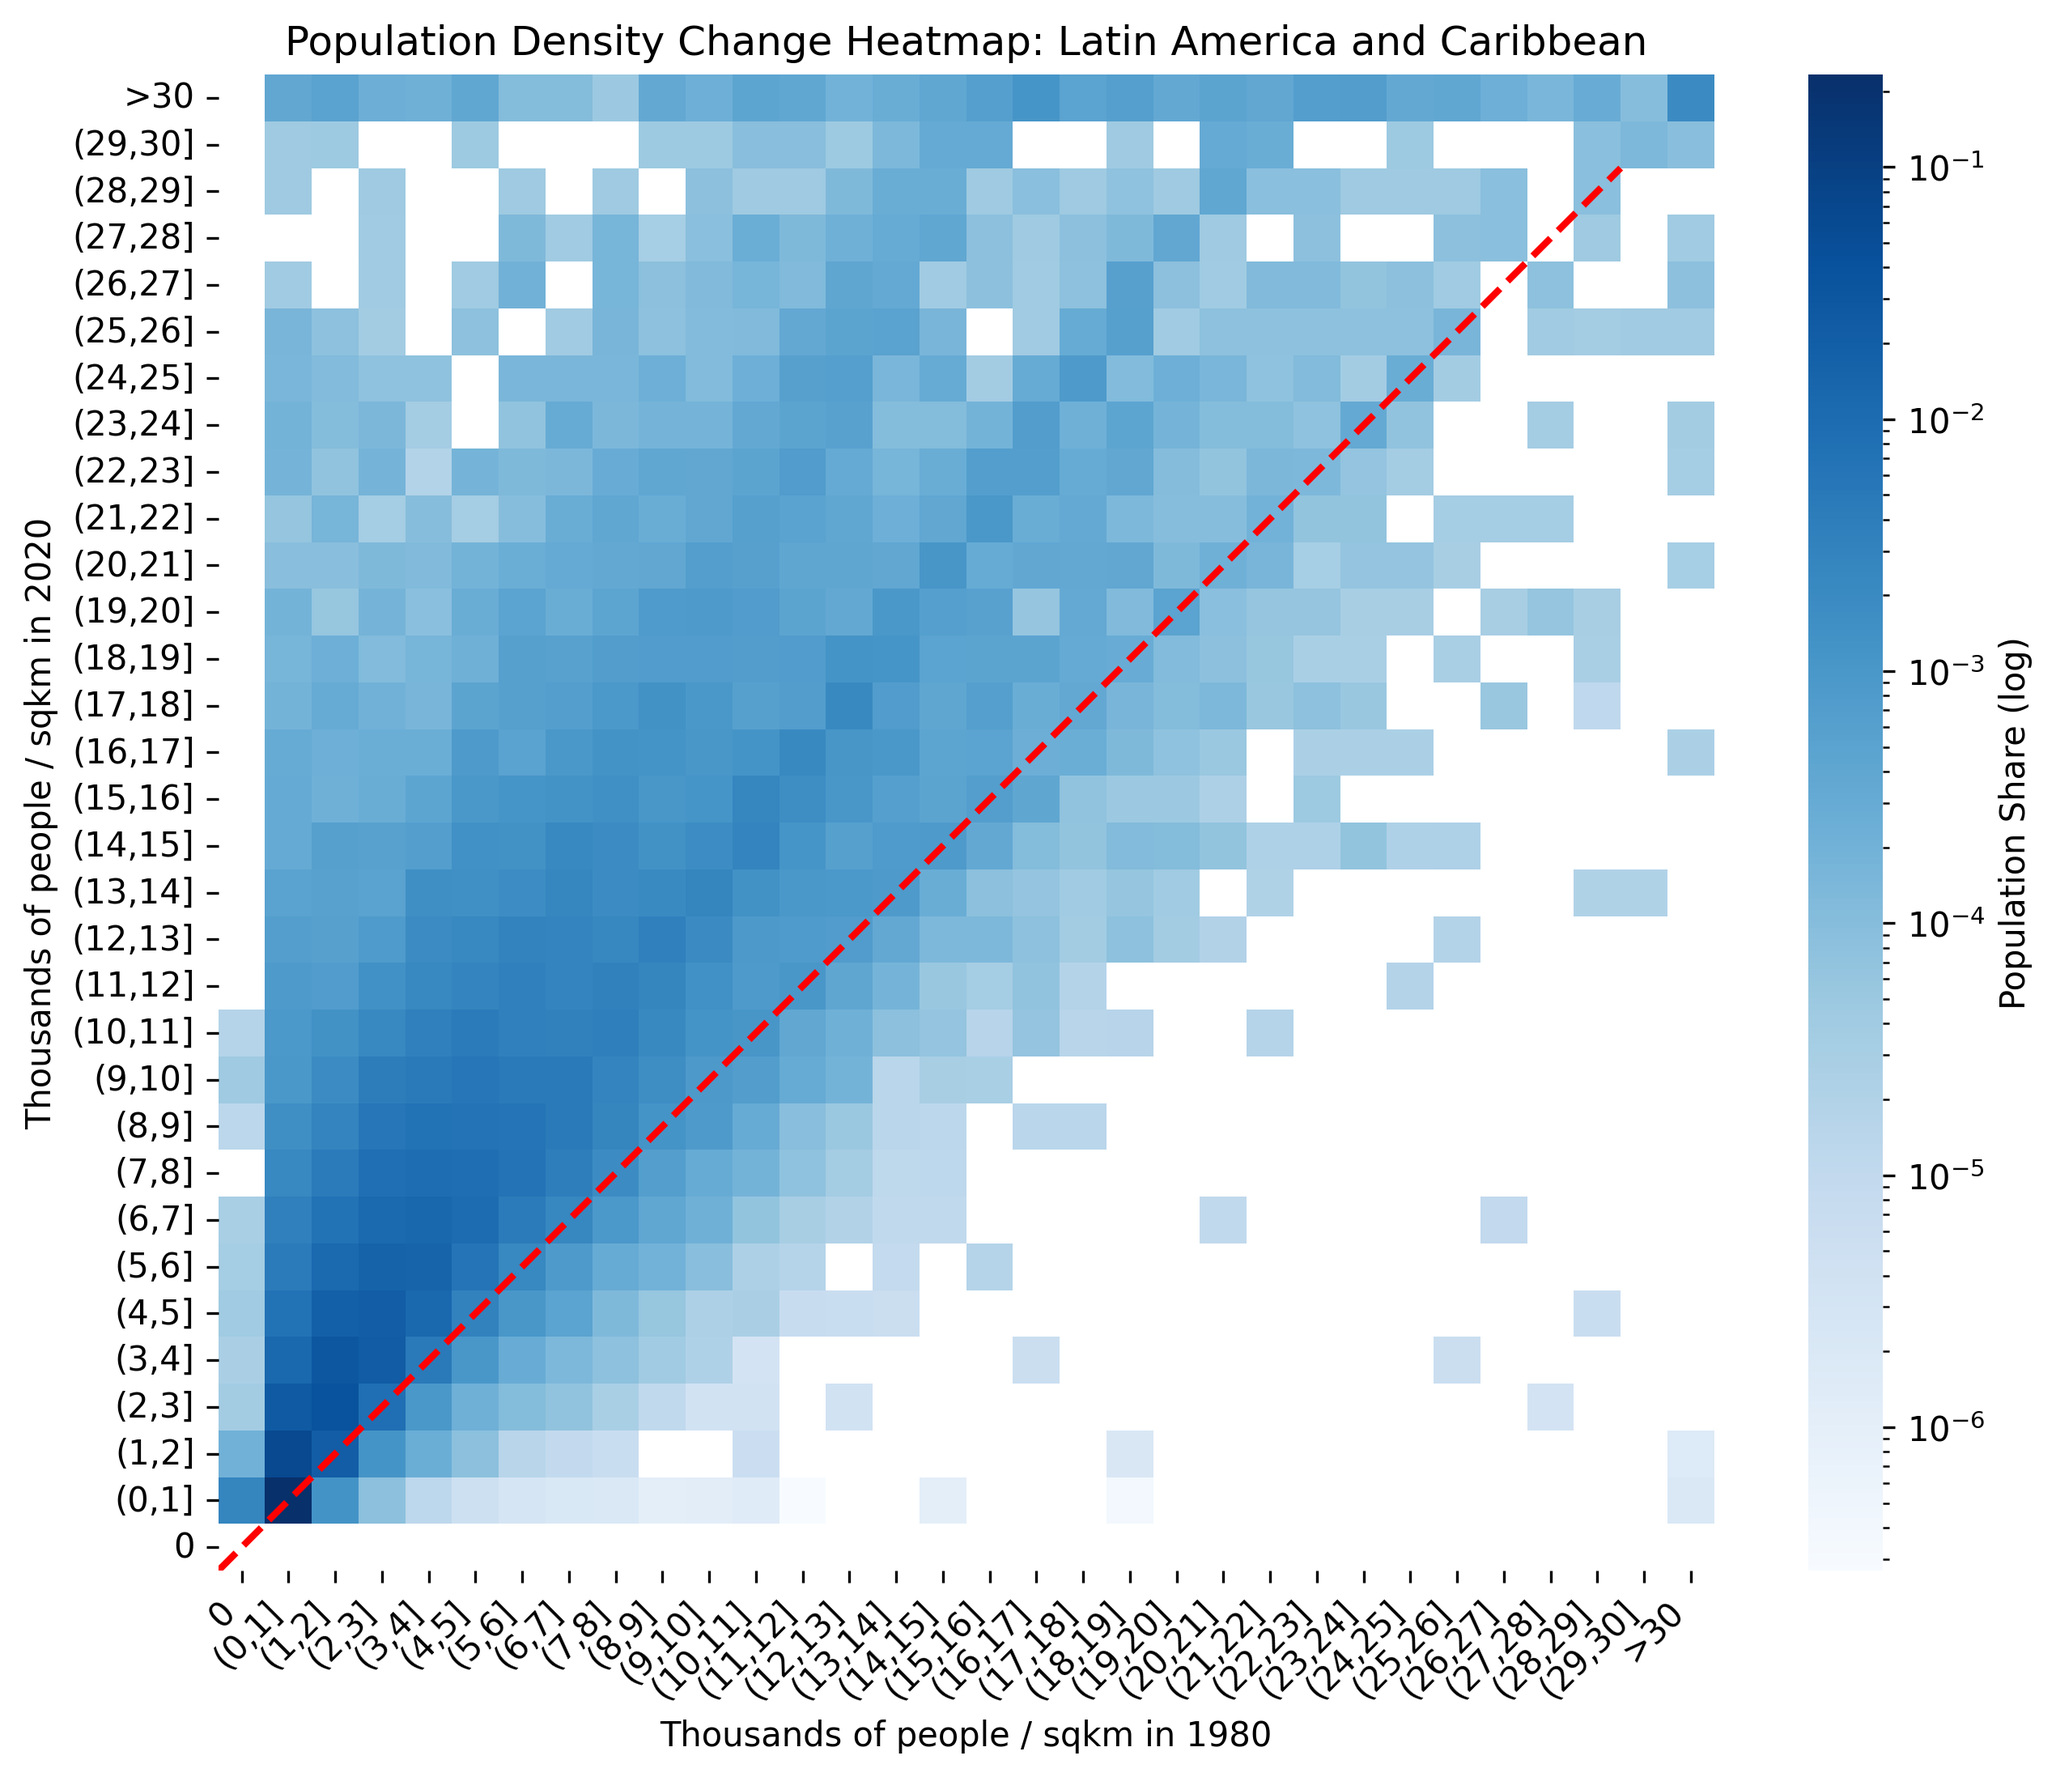
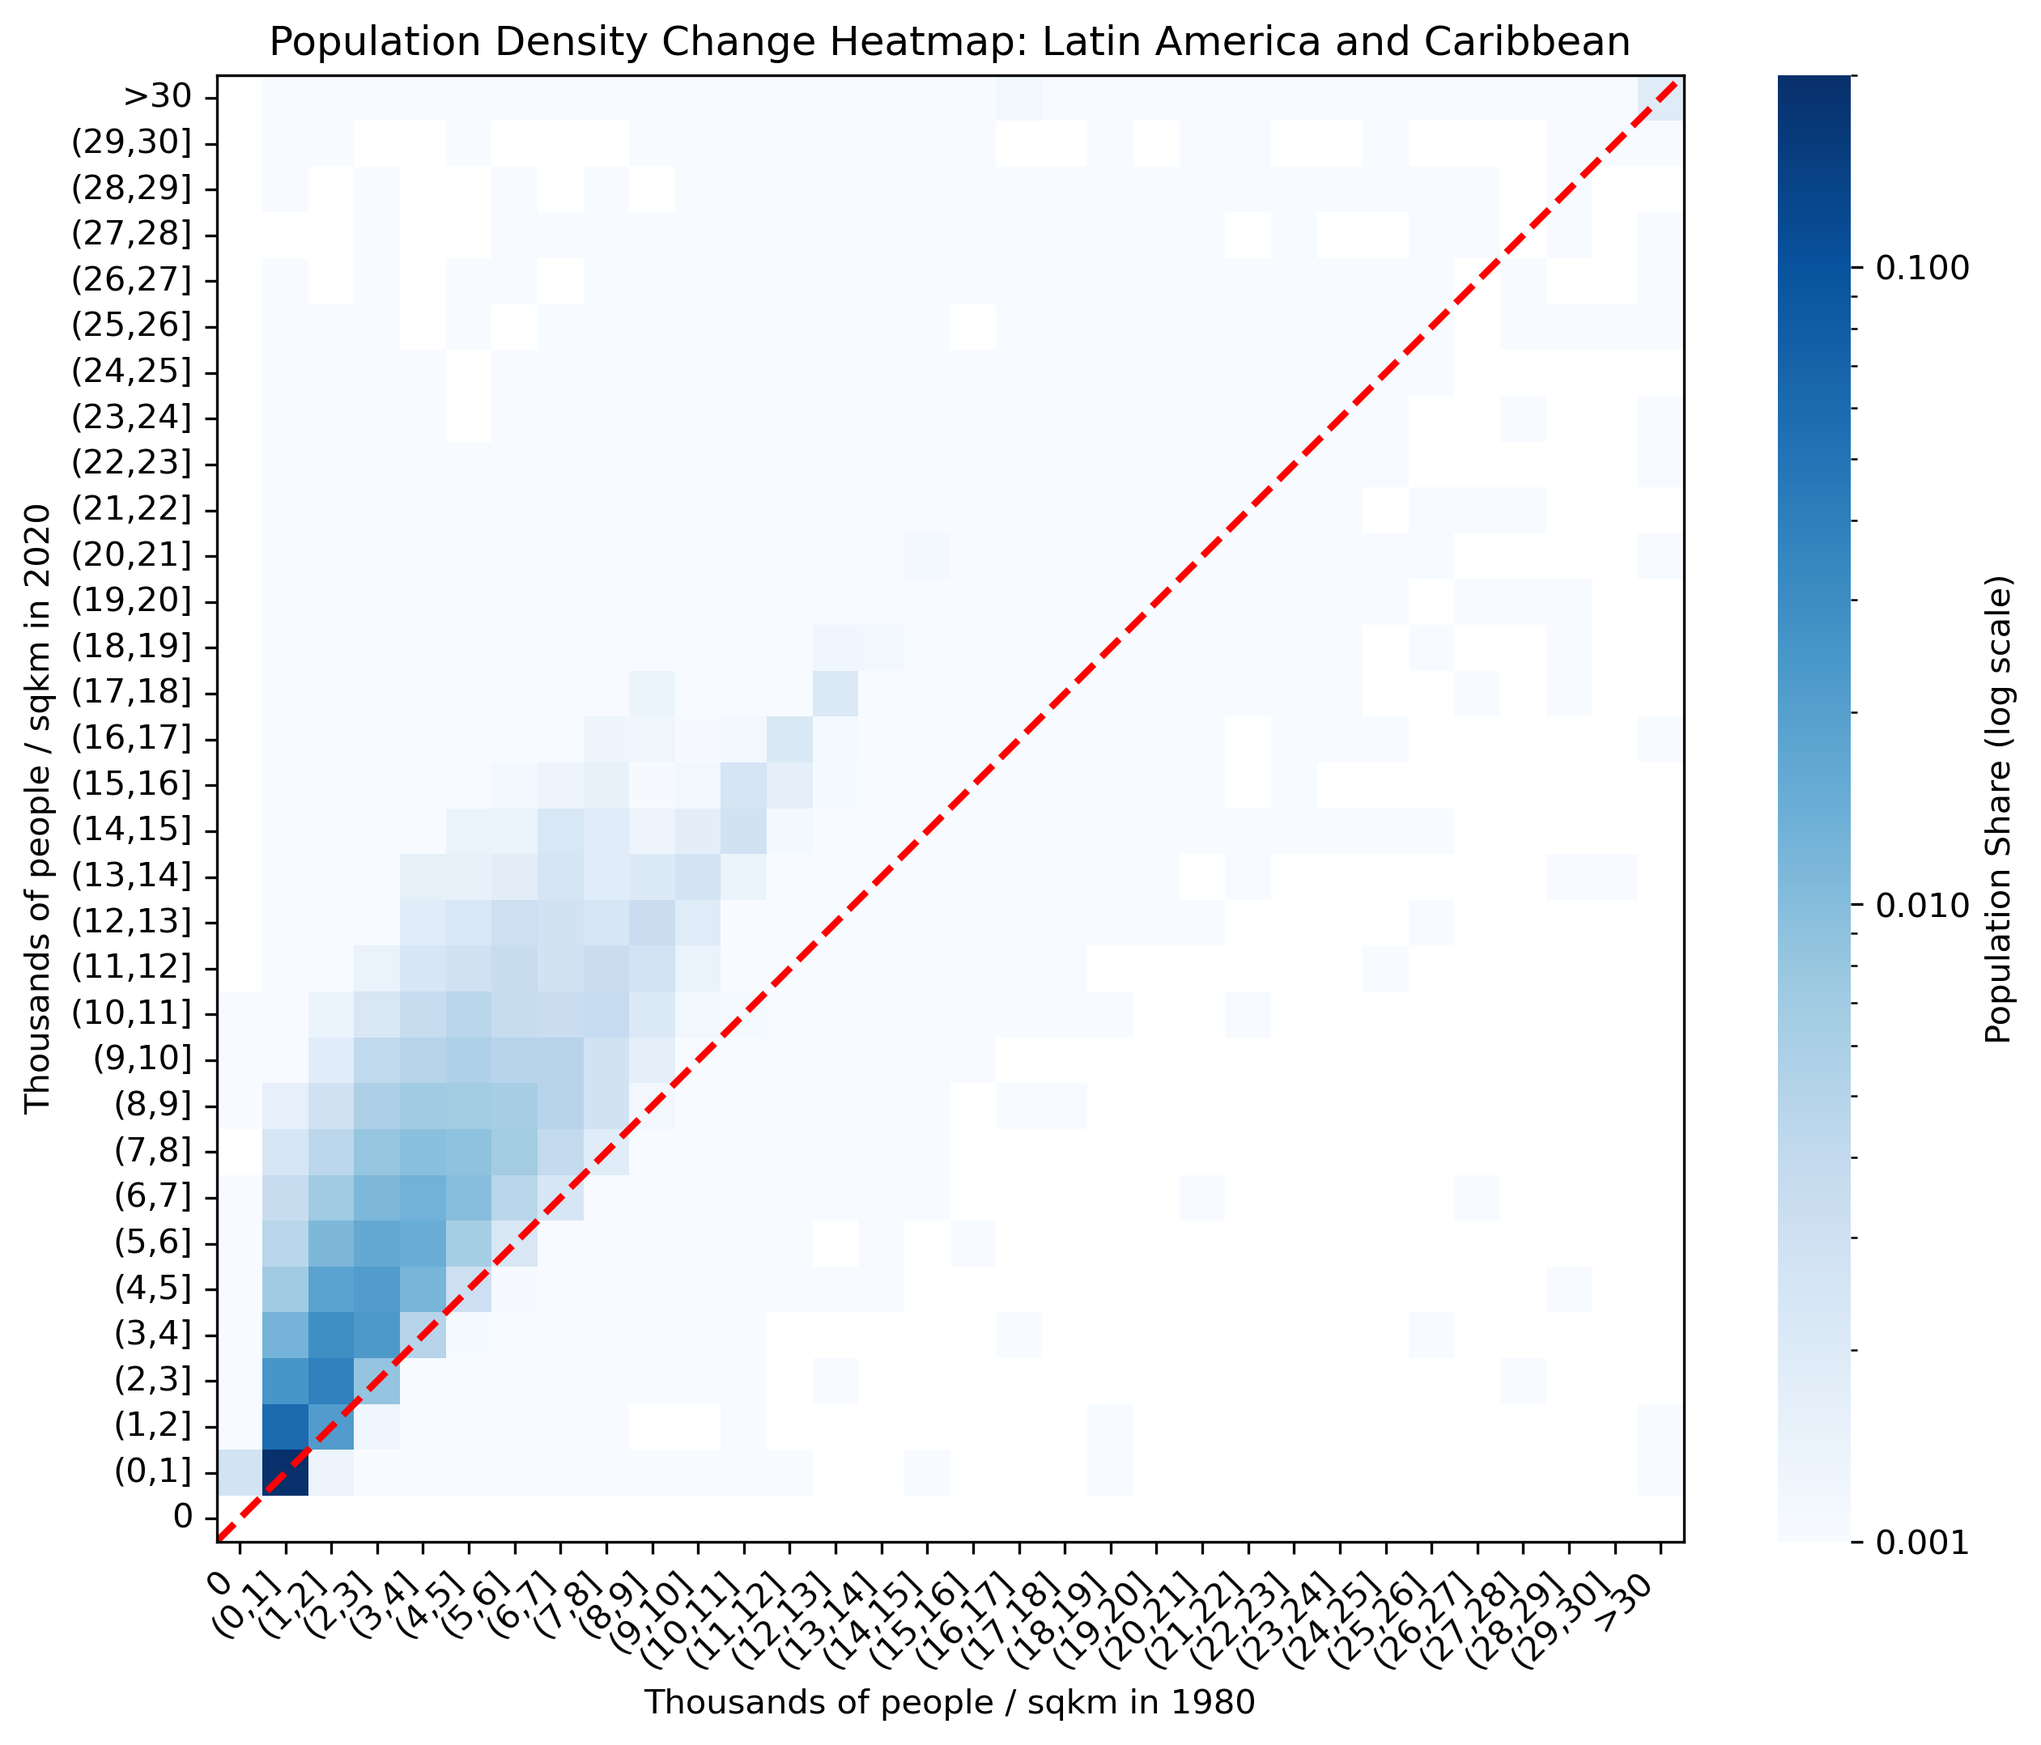
adjusted heatmaps
1) updated path names
2) gave heatmaps a border
3) set up to dynamically change data range (but left it at 30,000 ppl/sqm)
4) adjusted axes so they always extend the full range (europe falls short of 30,000)
 5) adjusted color bar so min and max are fixed

diff --git a/heatmaps.py b/heatmaps.py
@@ -5,9 +5,14 @@ import numpy as np
 import os
 from matplotlib.colors import LogNorm
 
+if os.getlogin() == "tanner_regan":
+    bindata=r"C:\Users\tanner_regan\Documents\GitHub\Urban-GEE\Data\Double bin data/" 
+    heatmaps=r"C:\Users\tanner_regan\Documents\GitHub\Urban-GEE\Data\Heatmaps"
+elif os.getlogin() == "auuser":
+    bindata = r"C:\Users\auuser\Documents\Munir\Urbanization Analysis\GEE\Data\Double bin data/"
+    heatmaps = r"C:\Users\auuser\Documents\Munir\Urbanization Analysis\GEE\Data\Heatmaps/"
+else: raise ValueError('Path not correctly specified for this computer.')
 
-bindata = r"C:\Users\auuser\Documents\Munir\Urbanization Analysis\GEE\Data\Double bin data"
-heatmaps = r"C:\Users\auuser\Documents\Munir\Urbanization Analysis\GEE\Data\Heatmaps"
 
 # Load the two CSV files
 SSA = bindata + r"\Sub_Saharan_Africa_Aggregated.csv"
@@ -37,11 +42,19 @@ def generate_population_heatmap(file_path, output_folder=heatmaps):
     # Read the CSV file
     df = pd.read_csv(file_path)
 
+    # set the upper limit of the data dynamically
+    bupr=30
+    df.loc[df.bin1980>(bupr+1)*1000,'bin1980']=(bupr+1)*1000
+    df.loc[df.bin2020>(bupr+1)*1000,'bin2020']=(bupr+1)*1000
+    
+    df = df.groupby(['bin1980', 'bin2020'], as_index=False).agg({
+            'pop2020_sum': 'sum','pixel_count': 'sum'})
+    
     # Define bin edges and upper bound labels
     #bin_edges = list(range(0, 31000, 1000)) + [float('inf')]
-    bin_labels_upper = [str(i) for i in range(0, 31000, 1000)]
+    bin_labels_upper = [str(i) for i in range(0, (bupr+1)*1000, 1000)]
     # Assign labels dynamically: "0", "(0,1]", "(1,2]", ..., "(29,30]"
-    bin_labels =["0"] + [f"({i},{i+1}]" for i in range(0, 30)] + [">30"]
+    bin_labels =["0"] + [f"({i},{i+1}]" for i in range(0, bupr)] + [">"+str(bupr)]
 
     # Aggregate population by (1980_bin, 2020_bin)
     df_grouped = df.groupby(["bin1980", "bin2020"], observed=True).agg({"pop2020_sum": "sum"}).reset_index()
@@ -57,13 +70,18 @@ def generate_population_heatmap(file_path, output_folder=heatmaps):
     # Create figure
     plt.figure(figsize=(10, 8))
     ax = sns.heatmap(
-        heatmap_data, cmap="Blues", cbar_kws={'label': 'Population Share (log)'}, square=True,  norm=LogNorm()
+        heatmap_data, cmap="Blues", cbar_kws={'label': 'Population Share (log scale)'}, square=True,  norm=LogNorm(vmin=0.001, vmax=0.2)
     )
+    
+    # Add a border around the plot space
+    for _, spine in ax.spines.items():
+        spine.set_visible(True)
     
     # Set axis labels and title
     plt.xlabel("Thousands of people / sqkm in 1980")
     plt.ylabel("Thousands of people / sqkm in 2020")
     plt.title(f"Population Density Change Heatmap: {region_name}")
+    
 
      # Dynamically extract tick labels based on available data
     x_ticks = [tick for tick in ax.get_xticks() if tick < len(bin_labels)]
@@ -76,8 +94,12 @@ def generate_population_heatmap(file_path, output_folder=heatmaps):
     # Fix axis orientation (lower left should be (0,0))
     ax.invert_yaxis()
 
+    #set the axis range to extend fully
+    ax.set_xlim([0, len(bin_labels)])
+    ax.set_ylim([0, len(bin_labels)])
+    
     # Add 45-degree reference line
-    ticks = np.arange(len(bin_labels_upper))
+    ticks = np.arange(len(bin_labels_upper)+2)
     plt.plot(ticks, ticks, color="red", linestyle="--", linewidth=2)
 
     # Ensure output folder exists
